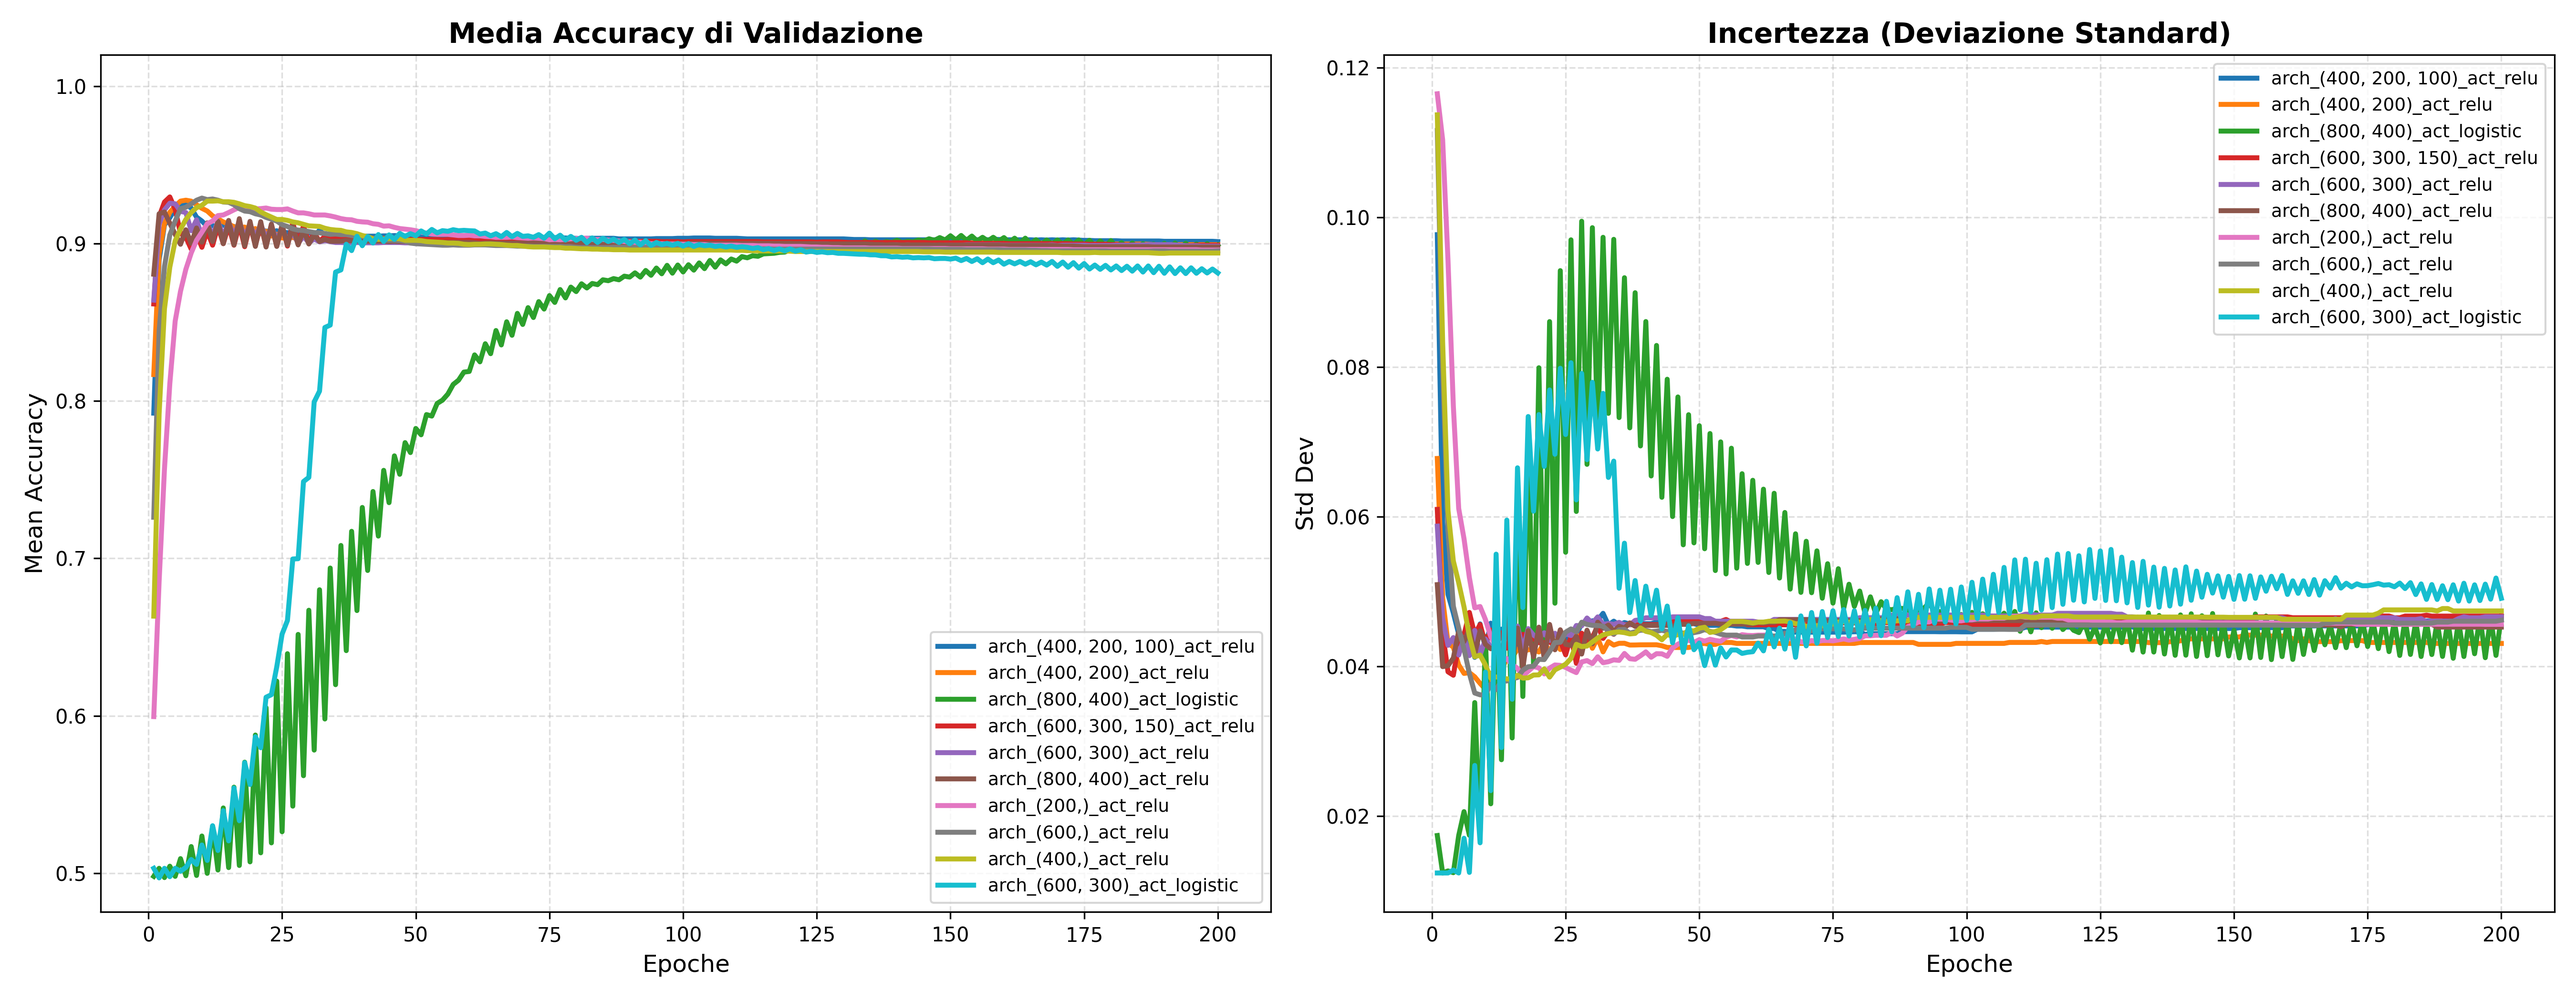
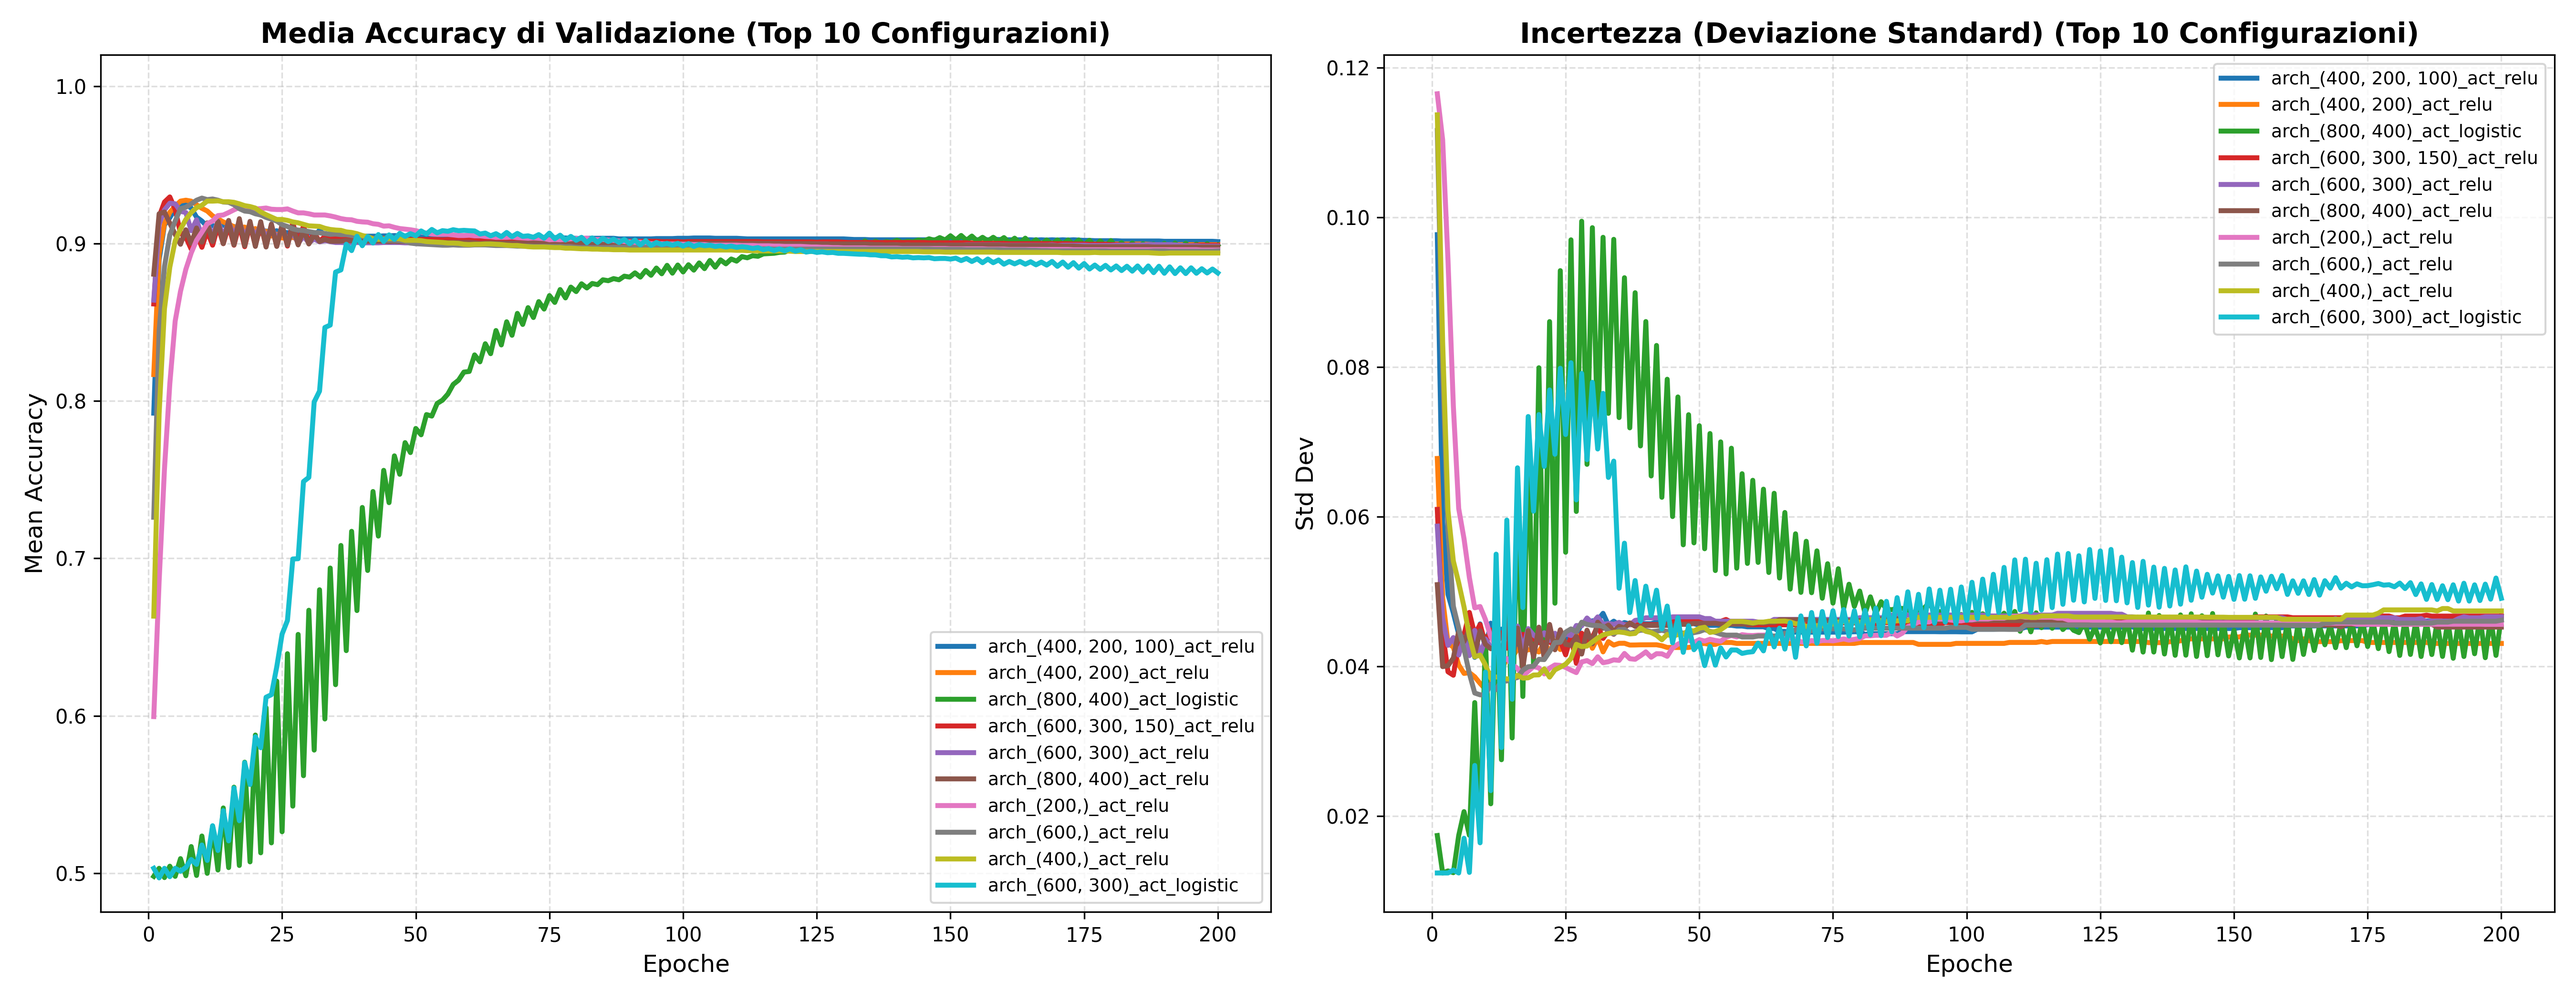
learning rate scenario all conf comparison

Changed region(s): [[0.0933, 0.0, 0.4356, 0.0619], [0.5911, 0.0, 0.9333, 0.0619]]

diff --git a/Tesina 3/personal_lib/visualization.py b/Tesina 3/personal_lib/visualization.py
@@ -372,11 +372,112 @@ def plot_cv_prediction_stability(y_true_list, y_pred_list, n_runs=30, scenario =
 
 
 #============ OTHER SCENARIOS PLOTS ============
+def plot_configs_box_plot_all(results: dict, scenario="_", save_path="_accuracy_boxplot_all", title="Box Plot Accuracy"):
+    print(scenario)
+    configs = []
+    test_scores = []
 
-def plot_configs_box_plot(results : Dict,scenario ="_",save_path ="_accuracy_boxplot", title="Box Plot Accuracy per Configurazione"):
+    for config, cv_logger in results.items():
+        configs.append(config)
+        test_scores.append(cv_logger.test_scores)
+
+    plt.figure(figsize=(14, 6)) 
+
+    # --- NUOVA LOGICA GAP DINAMICO ---
+    positions = []
+    current_pos = 1
+    
+    # Definiamo ogni quanto deve esserci un gap in base allo scenario
+    if scenario == "architecture_with_sel":
+        gap_every = 4
+    elif scenario == "regulation_with_sel":
+        gap_every = 3
+    elif scenario == "learning_rate_with_sel":
+        gap_every = 9
+    else:
+        gap_every = None  # Nessun gap
+
+    if gap_every:
+        for i in range(len(configs)):
+            positions.append(current_pos)
+            if (i + 1) % gap_every == 0:
+                current_pos += 2  
+            else:
+                current_pos += 1
+    else:
+        positions = range(1, len(configs) + 1)
+    # ---------------------------------
+
+    plt.boxplot(test_scores, positions=positions)
+
+    # Use the calculated positions for the x-ticks as well
+    plt.xticks(positions, configs, rotation=45, ha='right')
+
+    plt.title(title)
+    plt.xlabel('Configurazioni')
+    plt.ylabel('Accuracy')
+    plt.grid(axis='y', linestyle='--', alpha=0.7)
+
+    plt.tight_layout() 
+    plt.savefig(f"Immagini/{scenario}/{save_path}", dpi=300)
+    plt.show()
+
+def plot_configs_exec_time_all(results: dict, scenario="_", save_path="_exec_time_all", title="Tempi di Esecuzione"):
+    exec_times = []
+    configs = []
+
+    for config, cv_logger in results.items():
+        configs.append(config)
+        summary = cv_logger.get_summary()
+        exec_times.append(summary['total_time'])
+
+    plt.figure(figsize=(12, 6))
+
+    # --- NUOVA LOGICA GAP DINAMICO ---
+    positions = []
+    current_pos = 1
+    
+    # Definiamo ogni quanto deve esserci un gap in base allo scenario
+    if scenario == "architecture_with_sel":
+        gap_every = 4
+    elif scenario == "regulation_with_sel":
+        gap_every = 3
+    elif scenario == "learning_rate_with_sel":
+        gap_every = 9
+    else:
+        gap_every = None  # Nessun gap
+
+    if gap_every:
+        for i in range(len(configs)):
+            positions.append(current_pos)
+            if (i + 1) % gap_every == 0:
+                current_pos += 2  
+            else:
+                current_pos += 1
+    else:
+        positions = range(1, len(configs) + 1)
+    # ---------------------------------
+
+    bars = plt.bar(positions, exec_times, color='mediumseagreen', edgecolor='black')
+    
+    dynamic_font_size = max(5, min(12, 120 / len(configs)))
+    plt.bar_label(bars, padding=3, fmt='%.2f', fontsize=dynamic_font_size, fontweight='bold')
+
+    plt.title(title, fontsize=14)
+    plt.xlabel("Configurazioni", fontsize=12)
+    plt.ylabel("Tempo di esecuzione (sec)", fontsize=12)
+
+    plt.xticks(positions, configs, rotation=45, ha="right", fontsize=8)
+
+    plt.tight_layout()
+    plt.savefig(f"Immagini/{scenario}/{save_path}", dpi=300)
+    plt.show()
+
+def plot_configs_box_plot(results : Dict,scenario ="_",save_path ="_accuracy_boxplot", title="Box Plot Accuracy (Top 10 Configurazioni)"):
     """
     Grafica i box plot dell'accuracy di ogni configurazione
     """
+    print(scenario)
     configs = []
     test_scores = []
 
@@ -401,7 +502,7 @@ def plot_configs_box_plot(results : Dict,scenario ="_",save_path ="_accuracy_box
     plt.savefig("Immagini/"+scenario+"/"+save_path, dpi=300)
     plt.show()
 
-def plot_configs_exec_time(results : Dict, scenario ="_",save_path ="_exec_time",title ="Tempi di Esecuzione pe Configurazione"):
+def plot_configs_exec_time(results : Dict, scenario ="_",save_path ="_exec_time",title ="Tempi di Esecuzione (Top 10 Configurazioni)"):
     """
     Grafica i tempi di esecuzione di ogni configurazione
     """
@@ -474,7 +575,7 @@ def plot_cv_stability_comparison(results_y_true: Dict, results_y_pred: Dict, n_r
         ax.bar(x + offset, all_counts[config], width, label=config, edgecolor='black', alpha=0.8)
 
     # 4. Formattazione
-    ax.set_title("Confronto Distribuzione Stabilità tra Configurazioni", fontsize=16, fontweight='bold')
+    ax.set_title("Confronto Distribuzione Stabilità (Top 10 Configurazioni)", fontsize=16, fontweight='bold')
     ax.set_xlabel("Frequenza di predizione Classe '1' (0=Stabile 0, 1=Stabile 1)", fontsize=12)
     ax.set_ylabel("Numero di Campioni", fontsize=12)
     ax.set_xticks(x)
@@ -488,7 +589,7 @@ def plot_cv_stability_comparison(results_y_true: Dict, results_y_pred: Dict, n_r
 
 
 
-def plot_config_roc_curves(results: Dict, scenario="_",save_path ="_roc_curves", title="Confronto Curve ROC (Top 10)"):
+def plot_config_roc_curves(results: Dict, scenario="_",save_path ="_roc_curves", title="Confronto Curve ROC (Top 10 Configurazioni)"):
     """
     Curve ROC delle TOP 10 configurazioni per mean_test_acc,
     con evidenziazione del punto più vicino a (0,1)
@@ -616,7 +717,7 @@ def plot_config_loss_convergence(results_dict: Dict, scenario="_", save_path="_c
                          color=color, alpha=0.1)
 
     # 3. Formattazione Grafico
-    plt.title("Confronto Convergenza Loss tra Configurazioni", fontsize=15, fontweight='bold')
+    plt.title("Confronto Convergenza Loss (Top 10 Configurazioni)", fontsize=15, fontweight='bold')
     plt.xlabel("Iterazioni (Epoche)", fontsize=12)
     plt.ylabel("Valore Loss", fontsize=12)
     
@@ -660,7 +761,7 @@ def plot_config_epoch_accuracy(epoch_res, scenario="_", save_path="_accuracy_com
         ax2.plot(e, sv, label=config_name, color=color, linewidth=2.5)
 
     # Configurazione Grafico Media
-    ax1.set_title("Media Accuracy di Validazione", fontsize=14, fontweight='bold')
+    ax1.set_title("Media Accuracy di Validazione (Top 10 Configurazioni)", fontsize=14, fontweight='bold')
     ax1.set_xlabel("Epoche", fontsize=12)
     ax1.set_ylabel("Mean Accuracy", fontsize=12)
     ax1.grid(True, linestyle="--", alpha=0.4)
@@ -669,7 +770,7 @@ def plot_config_epoch_accuracy(epoch_res, scenario="_", save_path="_accuracy_com
     ax1.legend(fontsize=9, loc='best') # Legenda interna al primo grafico
 
     # Configurazione Grafico Deviazione
-    ax2.set_title("Incertezza (Deviazione Standard)", fontsize=14, fontweight='bold')
+    ax2.set_title("Incertezza (Deviazione Standard) (Top 10 Configurazioni)", fontsize=14, fontweight='bold')
     ax2.set_xlabel("Epoche", fontsize=12)
     ax2.set_ylabel("Std Dev", fontsize=12)
     ax2.grid(True, linestyle="--", alpha=0.4)

diff --git a/Tesina 3/main_2.py b/Tesina 3/main_2.py
@@ -222,8 +222,9 @@ if __name__ == "__main__":
             y_pred={}
             y_proba={}
 
-            for config, cv_logger in top_n_config.items():
-                cv_summary = cv_logger.get_summary()
+            for config, cv_log in top_n_config.items():
+                print(config)
+                cv_summary = cv_log.get_summary()
                 y_test[config]=cv_summary['y_true']
                 y_pred[config]= cv_summary['y_pred']
                 y_proba[config]= cv_summary['y_proba']
@@ -231,6 +232,19 @@ if __name__ == "__main__":
             top_epoch_results = {config: epoch_results[config] for config in top_n_config.keys() if config in epoch_results}
             top_lc_results ={config: lc_results[config] for config in top_n_config.keys() if config in lc_results}
 
+            if EXPERIMENT =="learning_rate":
+                res1,res2,res3,res4 = split_lr_cofigs(cv_logger)
+                plot_configs_box_plot_all(res1, scenario=EXPERIMENT+WITH_SEL, save_path="_accuracy_boxplot_1")
+                plot_configs_box_plot_all(res2, scenario=EXPERIMENT+WITH_SEL, save_path="_accuracy_boxplot_2")
+                plot_configs_box_plot_all(res3, scenario=EXPERIMENT+WITH_SEL, save_path="_accuracy_boxplot_3")
+                plot_configs_box_plot_all(res4, scenario=EXPERIMENT+WITH_SEL, save_path="_accuracy_boxplot_4")
+                plot_configs_exec_time_all(res1, scenario=EXPERIMENT+WITH_SEL, save_path="_exec_time_1")
+                plot_configs_exec_time_all(res2, scenario=EXPERIMENT+WITH_SEL, save_path="_exec_time_2")
+                plot_configs_exec_time_all(res3, scenario=EXPERIMENT+WITH_SEL, save_path="_exec_time_3")
+                plot_configs_exec_time_all(res4, scenario=EXPERIMENT+WITH_SEL, save_path="_exec_time_4")
+            else:
+                plot_configs_box_plot_all(cv_logger, scenario=EXPERIMENT+WITH_SEL)
+                plot_configs_exec_time_all(cv_logger, scenario=EXPERIMENT+WITH_SEL)
             plot_configs_box_plot(top_n_config,scenario=EXPERIMENT+WITH_SEL)
             plot_configs_exec_time(top_n_config,scenario=EXPERIMENT+WITH_SEL)
             plot_cv_stability_comparison(y_test,y_pred, scenario=EXPERIMENT+WITH_SEL)

diff --git a/Tesina 3/personal_lib/utils.py b/Tesina 3/personal_lib/utils.py
@@ -136,6 +136,14 @@ def get_top_n_config (results : Dict, n : int = 10):
     
     return top_n_results
     
-
+def split_lr_cofigs (results : Dict):
+    """
+    Splitta le configurazioni dello scenario 'learning rate' dando i dizionari corrispondenti ai valori 
+    possibili dei leanrning rate iniziali
     
-   
+    """
+    dict_lr_1 = {k: v for k, v in results.items() if "lr_0.0001_" in k}
+    dict_lr_2 = {k: v for k, v in results.items() if "lr_0.001_" in k}
+    dict_lr_3 = {k: v for k, v in results.items() if "lr_0.01_" in k}
+    dict_lr_4 = {k: v for k, v in results.items() if "lr_0.1_" in k}
+    return dict_lr_1,dict_lr_2,dict_lr_3,dict_lr_4
